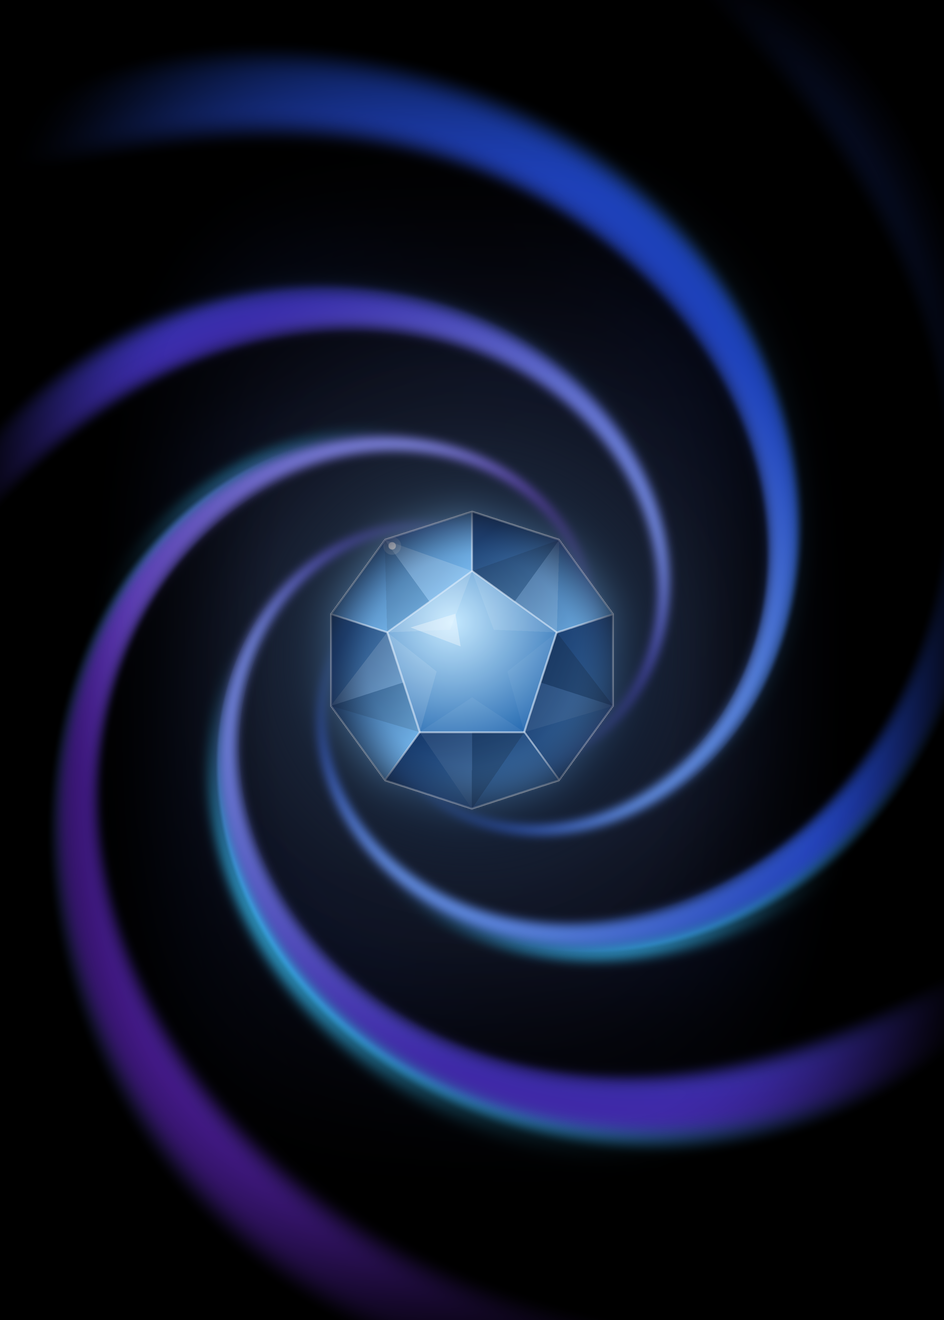
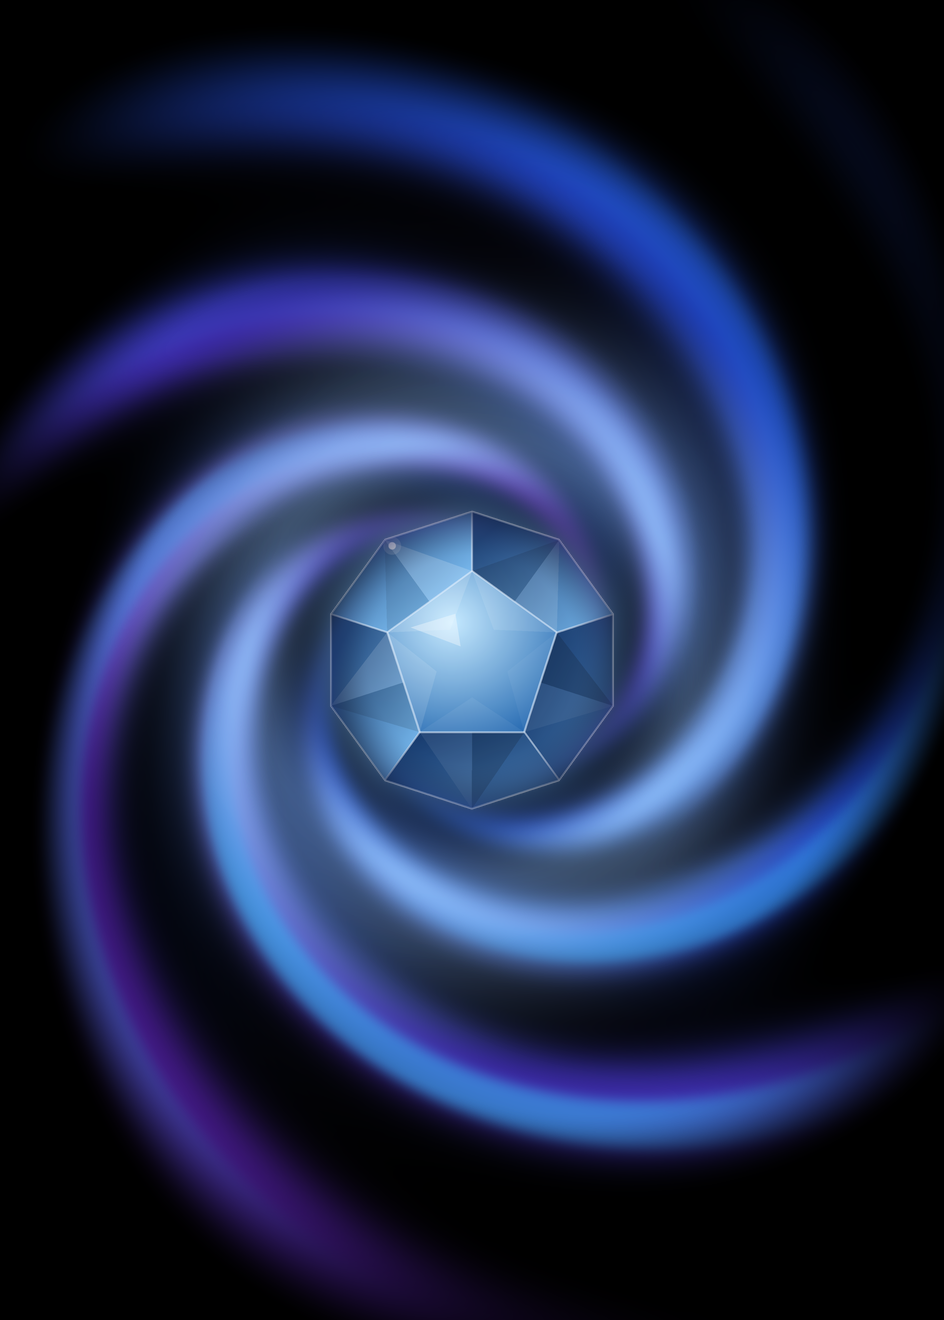
fix(cards): card back arms keep their start and only widen towards the rim
The taper no longer thins the arms at the eye nor removes the mist and the
eye's ring: each arm's profile just softens with the radius, widening it
towards the card's edges.

diff --git a/design/home/build_vortex.py b/design/home/build_vortex.py
@@ -26,18 +26,17 @@ def smooth(e0, e1, x):
 
 def arm_profile(s1, r, n_arms, taper):
     """Where the arms are, 0..1, along the spiral phase `s1` at radius `r`. Without `taper` each arm takes the same share
-    of the turn everywhere; with it the share grows with the radius, so each arm starts as a thin line at the eye and
-    widens steadily outwards."""
+    of the turn everywhere; with it the arms are as they are near the eye and widen steadily towards the rim (a softer
+    profile further out)."""
     c = 0.5 + 0.5 * np.cos(n_arms * s1)
     if not taper:
         return c ** 1.8
-    share = 0.06 + 0.64 * smooth(0.2, 1.05, r)
-    return smooth(1 - share, 1, c)
+    return c ** (1.8 - 1.2 * smooth(0.3, 1.05, r))
 
 
 def vortex(size, accent='#f5b301', fade_out=(0.6, 1.0), n_arms=3, taper=False):
     """`accent`: the faint edge on one arm. `n_arms`: how many arms. `fade_out`: where (radius, 0..1 at the square's edge)
-    it fades out to clear. `taper`: arms thin at the eye, widening outwards (arm_profile)."""
+    it fades out to clear. `taper`: arms widening towards the rim (arm_profile)."""
     ys, xs = np.mgrid[0:size, 0:size].astype(np.float32)
     x, y = (xs + 0.5) / size * 2 - 1, (ys + 0.5) / size * 2 - 1
     r = np.hypot(x, y) + 1e-6
@@ -49,13 +48,7 @@ def vortex(size, accent='#f5b301', fade_out=(0.6, 1.0), n_arms=3, taper=False):
     s2 = -a * 1 + 1.4 * lr + 0.9
     arms = arm_profile(s1, r, n_arms, taper)  # the main arms
     mist = 0.5 + 0.5 * np.cos(2 * s2 + 0.6 * np.sin(5 * s1))
-    if taper:
-        # Tapered: no mist near the eye, where it would thicken the thin arms
-        mist = mist * smooth(0.25, 0.85, r)
-        # The accent runs along one side of each arm, as thin as the arm there
-        gold_edge = arm_profile(s1 - 0.55 / n_arms, r, n_arms, True) * (1 - arms) * 2.2 * smooth(0.3, 0.45, r) * (1 - smooth(0.6, 0.88, r))
-    else:
-        gold_edge = smooth(0.80, 0.97, 0.5 + 0.5 * np.cos(n_arms * s1 - 0.55)) * smooth(0.3, 0.45, r) * (1 - smooth(0.6, 0.88, r))
+    gold_edge = smooth(0.80, 0.97, 0.5 + 0.5 * np.cos(n_arms * s1 - 0.55)) * smooth(0.3, 0.45, r) * (1 - smooth(0.6, 0.88, r))
     gold_edge *= 0.5 + 0.5 * np.cos(s1)        # on one arm more than the others
 
     night = rgb('#080a16')
@@ -73,8 +66,7 @@ def vortex(size, accent='#f5b301', fade_out=(0.6, 1.0), n_arms=3, taper=False):
     col = col + (arm_color - col) * (arms[..., None] * 0.85)
     # Near the eye the arms brighten into ice blue, then the eye itself goes dark
     rim = smooth(0.2, 0.3, r) * (1 - smooth(0.3, 0.55, r))
-    # (tapered: only the arms brighten, no ring around the eye)
-    col = col + (ice - col) * (rim * ((0.05 if taper else 0.35) + 0.5 * arms))[..., None]
+    col = col + (ice - col) * (rim * (0.35 + 0.5 * arms))[..., None]
     eye = 1 - smooth(0.12, 0.26, r)  # under the gem
     col = col + (night - col) * (eye * 0.92)[..., None]
     col = col + (gold - col) * (gold_edge * 0.55)[..., None]
